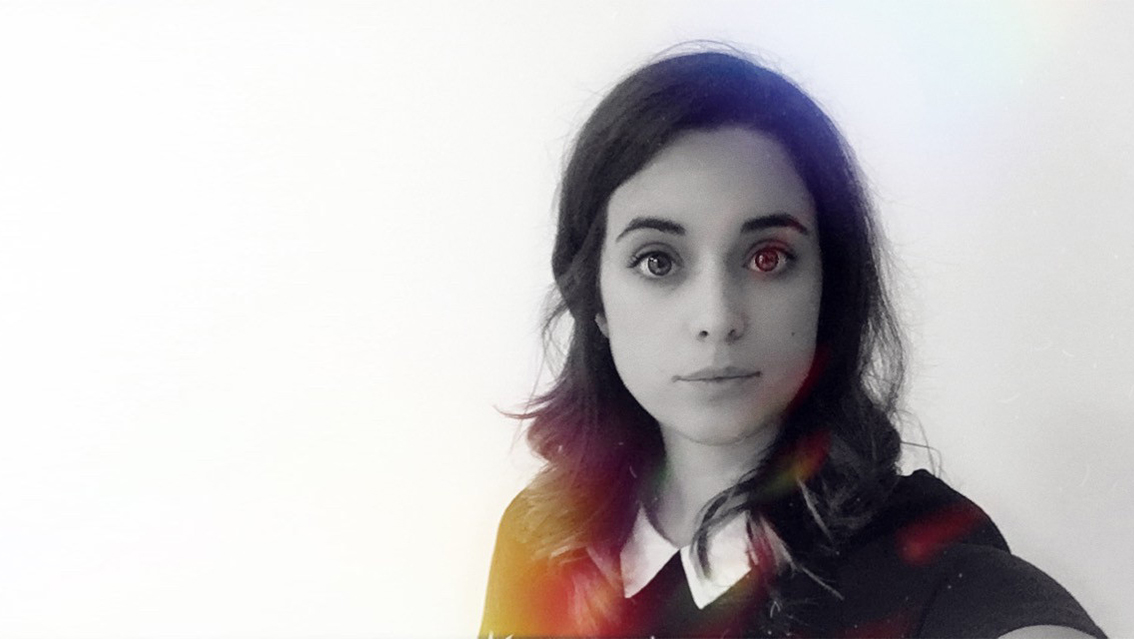
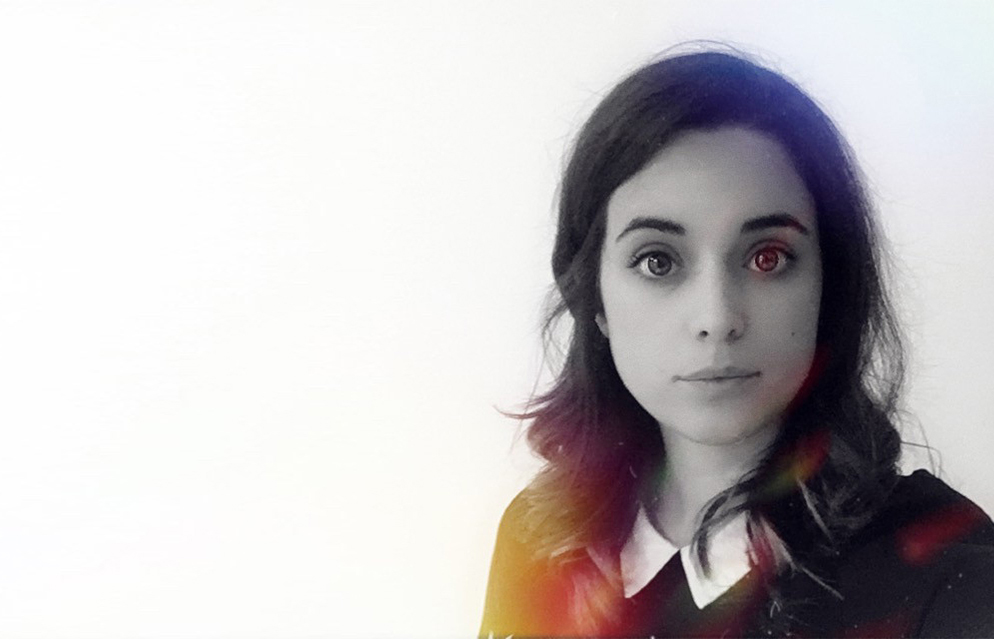
change hero photo to make responsive

diff --git a/src/scss/layout/_photo.scss b/src/scss/layout/_photo.scss
@@ -1,30 +1,28 @@
 .main_sectionPhoto {
-  padding: 30px 15px;
+  padding: 40px 15px;
   margin-top: 50px;
-  background-image: url("./../images/headerPhoto.jpg");
+  background-image: url("./../images/headerPhotosmall.jpg");
   background-size: cover;
-  background-position: 690px center;
+  background-position: right center;
   height: 95vh;
-
-  @media (min-width: 414px) {
-    background-position: 880px center;
-    padding: 50px 15px;
-  }
   @include tablet {
-    background-position: 1400px center;
-    padding: 70px 60px;
+    padding: 90px 75px;
   }
-  @media (min-width: 828px) {
-    background-position: 1900px center;
-    padding: 80px 60px;
+  @include desktop {
+    background-image: url("./../images/headerPhoto.jpg");
+    padding: 150px 135px;
   }
+
   scroll-margin-top: 50px;
 
   color: $color-grey-dark;
   &-wrap {
-    width: 55%;
+    width: 50%;
     @include tablet {
       width: 60%;
+    }
+    @include desktop {
+      width: 45%;
     }
     &-title {
       font-size: 30px;
@@ -36,21 +34,13 @@
       span {
         color: $color-yellow-light;
       }
-      @media (min-width: 414px) {
-        font-size: 40px;
-        letter-spacing: 12px;
-        line-height: 50px;
-        font-weight: 900;
-
-        padding-bottom: 25px;
-      }
       @include tablet {
         font-size: 80px;
         letter-spacing: 15px;
         line-height: 100px;
         font-weight: 900;
 
-        padding-bottom: 50px;
+        padding-bottom: 60px;
       }
     }
     &-subtitle {
@@ -60,19 +50,12 @@
       letter-spacing: 3px;
 
       padding-bottom: 20px;
-      @media (min-width: 414px) {
-        font-size: 18px;
-        letter-spacing: 4px;
-        line-height: 32px;
-
-        padding-bottom: 25px;
-      }
       @include tablet {
         font-size: 24px;
         line-height: 40px;
         letter-spacing: 6px;
 
-        padding-bottom: 50px;
+        padding-bottom: 60px;
       }
     }
     &-description {
@@ -80,11 +63,6 @@
       font-weight: inherit;
       letter-spacing: 1px;
       text-align: justify;
-      @media (min-width: 414px) {
-        font-size: 12px;
-        letter-spacing: 1.5px;
-        width: 85%;
-      }
       @include tablet {
         font-size: 16px;
         letter-spacing: 2px;
